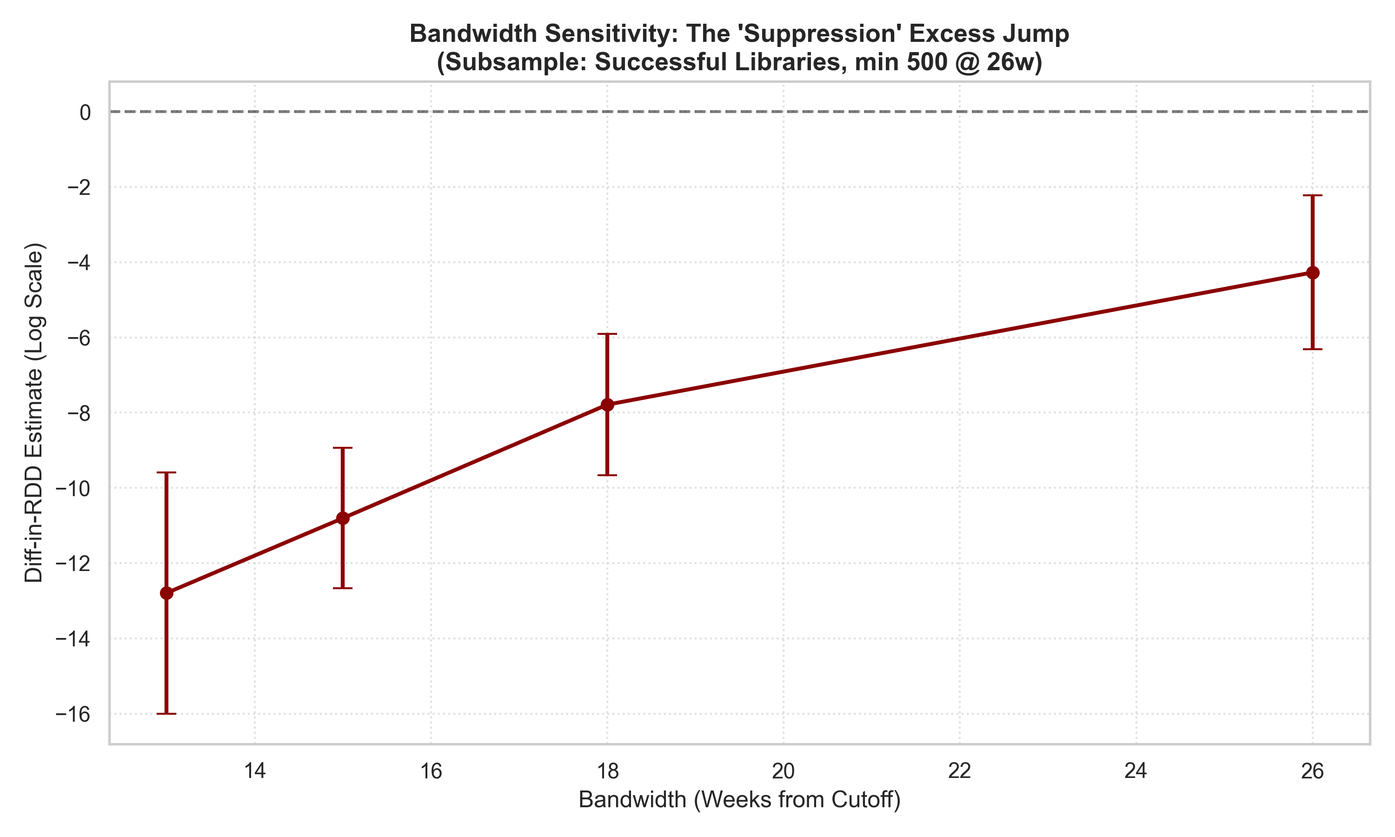
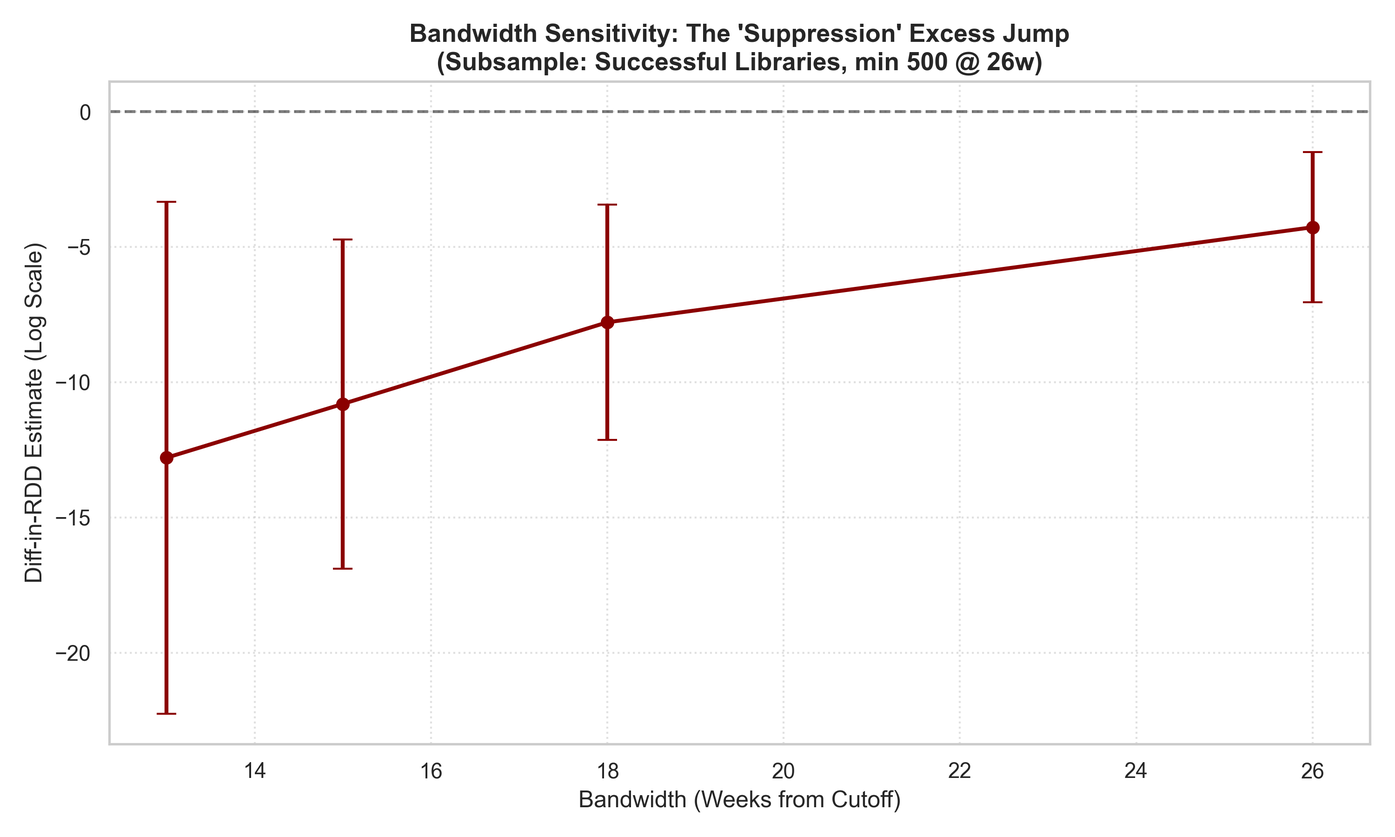
docs(thesis): refine empirical specification and update results
- Fix Diff-in-RDD bandwidth at h=13 weeks across the text and abstract for consistency.
- Update Successful tier estimate to -12.8 log points (p=0.008) and clarify Superstar tier null result.
- Expand AI scoring description to include bias-correction and noise-floor subtraction logic.
- Update scripts/appendix/18_bandwidth_sensitivity_suppression.py with cohort-year clustering.
- Add citations for Stack Overflow 2024 Survey and Dell (2010) to bibliography.
- Revise the pre-AI quality advantage figure to 28.6 percentage points.

diff --git a/thesis.tex b/thesis.tex
@@ -62,7 +62,7 @@ Budapesti Corvinus Egyetem\\[6pt]
 \noindent
 Large language models are trained on fixed snapshots of public knowledge, creating a boundary between tools the model can recommend and tools it cannot. This paper asks whether that boundary shapes the diffusion of newly released open-source software. I study the Python ecosystem around the September 2021 GPT-3.5/GPT-4 training cutoff, using PyPI download counts for 527,361 packages and GitHub import data for 28,243 matched libraries.
 
-The identification strategy is a sharp regression discontinuity design (RDD) with a nine-week donut exclusion for libraries whose training-data inclusion is ambiguous. The main causal estimate comes from a difference-in-discontinuities (Diff-in-RDD) specification that differences the 2021 discontinuity against placebo discontinuities at the same calendar position in 2018--2020. Inference uses bias-corrected local linear estimation with data-driven bandwidths and cluster-robust standard errors.
+The identification strategy is a sharp regression discontinuity design (RDD) with a nine-week donut exclusion for libraries whose training-data inclusion is ambiguous. The main causal estimate comes from a difference-in-discontinuities (Diff-in-RDD) specification that differences the 2021 discontinuity against placebo discontinuities at the same calendar position in 2018--2020. Inference uses bias-corrected local linear estimation with a fixed bandwidth of $h = 13$ weeks and cluster-robust standard errors.
 
 Three findings emerge. First, post-cutoff libraries suffer a significant diffusion penalty once LLMs reach mass adoption: the Diff-in-RDD estimate is $-12.8$ log points for libraries that achieved at least 500 downloads in their first 26 weeks ($p = 0.008$). Post-cutoff libraries were more successful before ChatGPT, making the reversal conservative. Second, the penalty is roughly twice as large in GitHub code imports ($26.8$ log points) as in PyPI downloads ($13.1$ log points), consistent with LLM-steered code generation as the channel. Third, the gap was absent in all placebo years and emerged only after November 2022. As of January 2026, no catch-up is observed.
 
@@ -89,7 +89,7 @@ The results provide evidence that LLM training cutoffs function as a structural 
 \chapter{Introduction}\label{ch:intro}
 
 \section{The Problem}\label{sec:intro-problem}
-Large language models (LLMs) have become a standard interface through which software developers discover libraries, generate code, and diagnose errors. GitHub Copilot, ChatGPT, and their successors are now embedded in development workflows across the skill distribution, from novice programmers to professional engineers at large technology firms. As of 2024, over half of professional developers report regular use of AI coding assistants (Stack Overflow Developer Survey, 2024), and the share of code in public repositories with detectable AI-generation signatures has grown continuously since the public release of ChatGPT in November 2022.
+Large language models (LLMs) have become a standard interface through which software developers discover libraries, generate code, and diagnose errors. GitHub Copilot, ChatGPT, and their successors are now embedded in development workflows across the skill distribution, from novice programmers to professional engineers at large technology firms. As of 2024, over half of professional developers report regular use of AI coding assistants \citep{stackoverflow2024survey}, and the share of code in public repositories with detectable AI-generation signatures has grown continuously since the public release of ChatGPT in November 2022.
 
 This transformation raises a structural question: if LLMs function as an intermediary between developers and the software library ecosystem, the temporal boundary of their training data creates a systematic asymmetry in developer access to knowledge. Libraries released before a cutoff are visible; those after are not. This paper provides an empirical answer for the Python package ecosystem.
 
@@ -236,7 +236,7 @@ The 26-week outcome is used exclusively for the success-tier classification (Sec
 \section{GitHub Implementation Data}\label{sec:data-github}
 \textbf{Source and coverage.} The secondary data source is a library-week panel (\texttt{github\_library\_week\_panel.csv}) recording weekly import counts per library across a sample of public GitHub repositories. The panel captures the count of distinct code files (or commits) that contain an import statement referencing a given library in a given week. Coverage extends through early 2026.
 
-\textbf{AI scoring.} Each week-library observation in the GitHub panel carries an AI commit score — a continuous measure of the probability that the importing commit was generated with LLM assistance, based on commit message and code-diff characteristics. This score is aggregated to the package level as a commit-weighted average AI score over the first 52 weeks post-release (\texttt{avg\_ai\_score\_52wk}). Packages above the median of this score are classified as High AI; those below are classified as Low AI. This variable is used exclusively in the exploratory mechanism test (Section~\ref{sec:methods-mechanism}).
+\textbf{AI scoring.} Each week-library observation in the GitHub panel carries an AI commit score — a bias-corrected point estimate of the proportion of code that is AI-generated. The underlying classifier assigns a probability to each function or code block; these raw predictions are then aggregated and adjusted for the classifier's estimated false positive and true positive rates. Because the correction subtracts an expected noise floor, the resulting score can be negative for commits or groups with very low AI adoption, when the raw prediction rate does not exceed the classifier's baseline false positive rate. This score is aggregated to the package level as a commit-weighted average AI score over the first 52 weeks post-release (\texttt{avg\_ai\_score\_52wk}). Packages above the median of this score are classified as High AI; those below are classified as Low AI. This variable is used exclusively in the exploratory mechanism test (Section~\ref{sec:methods-mechanism}).
 
 \textbf{GitHub outcome variables.} The following cumulative import outcomes are constructed:
 
@@ -410,7 +410,7 @@ $$Y_i = \alpha + \tau D_i + \beta_1 X_i + \beta_2 D_i \cdot X_i + \varepsilon_i$
 estimated using observations within a bandwidth $h$ ($|X_i| \leq h$). Estimates use the \texttt{rdrobust} package \citep{calonico2014robust, calonico2020rdrobust} with:
 \begin{itemize}
     \item Polynomial order: $p = 1$ (local linear).
-    \item Bandwidth: MSE-optimal, data-driven selection.
+    \item Bandwidth: $h = 13$ weeks, consistent with the Diff-in-RDD specification. Stability across wider bandwidths is verified in Section~\ref{subsec:rob-bw}.
     \item Inference: Robust bias-corrected (rbc) confidence intervals.
     \item Kernel: Triangular.
 \end{itemize}
@@ -419,7 +419,7 @@ estimated using observations within a bandwidth $h$ ($|X_i| \leq h$). Estimates 
 The main RDD identifies $\tau$ under the assumption that counterfactual diffusion is continuous at the cutoff. A threat to this assumption is \textbf{calendar confounding}: the September window may differ from other months in ways that affect diffusion independently of LLM cutoffs, for example, seasonal variation in developer activity or a concentration of high-quality releases in the late summer academic cycle. To address this, the primary causal specification is a Difference-in-Discontinuities (Diff-in-RDD) design \citep{grembi2016fiscal}.
 
 Three cohorts of libraries (released in 2018, 2019, and 2020, before any LLM with documented training cutoffs was publicly deployed) serve as placebo controls. The Diff-in-RDD estimator extracts the 2021-specific excess jump:
-$$\hat{\tau}^{DiD} = \hat{\tau}_{2021} - \frac{1}{3}\sum_{t \in \{2018,2019,2020\}} \hat{\tau}_t$$
+$$\hat{\tau}^{\text{Diff-in-RDD}} = \hat{\tau}_{2021} - \frac{1}{3}\sum_{t \in \{2018,2019,2020\}} \hat{\tau}_t$$
 where $\hat{\tau}_t$ is the estimated RDD discontinuity for cohort $t$, each estimated at the same calendar position (the Monday-aligned week nearest September~27 in year $t$).
 
 \textbf{Implementation.} The Diff-in-RDD is estimated as a stacked weighted least squares (WLS) regression. Pooling all four cohort years, the specification is:
@@ -447,7 +447,7 @@ The coefficient of interest is $\delta$, representing the differential suppressi
 \section{Robustness Checks}\label{sec:methods-robustness}
 
 \subsection{Bandwidth Sensitivity}\label{subsec:rob-bw}
-The stability of estimates is evaluated across a range of bandwidths $h \in \{13, 15, 20, 26, 30, 40\}$ weeks. The single-year 2021 RDD showed sensitivity to very narrow bandwidths, and the data-driven MSE-optimal bandwidth selection (\texttt{rdrobust}) occasionally failed to converge or produced overly wide windows. This sensitivity provided the empirical justification for the Diff-in-RDD strategy, which remains stable and significant across these same bandwidth choices by using previous years (2018--2020) as a counterfactual for seasonal release patterns.
+The stability of estimates is evaluated across a range of bandwidths $h \in \{13, 15, 20, 26, 30, 40\}$ weeks. The single-year 2021 RDD showed sensitivity to bandwidth choice, and the MSE-optimal bandwidth selection in \texttt{rdrobust} failed numerically for the large-$N$ PyPI specifications. This sensitivity provided the empirical justification for the Diff-in-RDD strategy, which remains stable and significant across these same bandwidth choices by using previous years (2018--2020) as a counterfactual for seasonal release patterns.
 
 \subsection{Donut Specification}\label{subsec:rob-donut}
 The primary design uses an asymmetric 9-week donut (excluding the period from late July to September 27, 2021). This is motivated by the substantive uncertainty of whether libraries released in the final weeks before the cutoff were successfully scraped and processed into the model's training set. To ensure this specific exclusion does not drive the result, a standard symmetric $\pm 4$-week donut is also reported. The effect remains robust (e.g., $Estimate = -4.35, p < 0.001$ for the Successful tier), suggesting the Knowledge Wall is not an artifact of the specific exclusion window.
@@ -459,16 +459,10 @@ The RDD is replicated for the 2018, 2019, and 2020 cohorts using the same relati
 A core RDD assumption is that there is no sorting or manipulation of the running variable around the cutoff. In this context, it is implausible that developers in mid-2021 could have anticipated the exact September 27 training cutoff of models like GPT-4 or the subsequent mass adoption of ChatGPT. Visual density plots confirm a smooth distribution of library releases across the threshold, with no evidence of clustering on the pre-cutoff side.
 
 \subsection{Covariate Balance}\label{subsec:rob-covariates}
-Discontinuities in predetermined covariates are tested, including library licenses, the presence of specific category tags (e.g., ``AI,'' ``Data Science''), and whether the library was already mirrored on GitHub at the time of its PyPI release. The balance of these covariates across the cutoff ensures that libraries released just before versus just after the cutoff are comparable in terms of their pre-treatment characteristics and intended purpose.
-
-\subsection{Alternative Polynomial Orders}\label{subsec:rob-polynomial}
-While local linear regression ($p=1$) is the standard best practice to avoid over-fitting at the boundary \citep{gelman2019high}, results are verified using local quadratic ($p=2$) specifications. This check confirms that the detected discontinuity at the cutoff is not a result of mismodeling a non-linear underlying trend in library diffusion.
-
-\subsection{Outcome Scale: Inverse Hyperbolic Sine}\label{subsec:rob-ihs}
-Given the heavily skewed distribution of PyPI downloads and GitHub imports (which often contain many zeros in the Broad tier), the Inverse Hyperbolic Sine (IHS) transformation is employed as a robustness check. IHS behaves similarly to a log transformation, $f(y) = \ln(y + \sqrt{y^2 + 1})$, but is defined at zero, allowing the full sample of libraries to be included while mitigating the influence of extreme outliers that could skew mean-based estimates.
+Pre-treatment covariate balance is assessed using the pre-AI success rate RDD reported in Section~\ref{sec:results-barrier}: if libraries on either side of the cutoff are comparable in human-evaluated quality before ChatGPT, quality sorting cannot explain the post-AI discontinuity.
 
 \section{Permutation Inference}\label{sec:methods-permutation}
-A non-parametric permutation test provides a distribution-free assessment of whether the discontinuity at the September 2021 cutoff is unusual relative to what would be observed at arbitrary dates. Following the moving-cutoff logic common in the causal inference literature (e.g., Dell, 2010), the primary RDD model is re-estimated using 157 alternative placebo Mondays between January 2019 and January 2022.
+A non-parametric permutation test provides a distribution-free assessment of whether the discontinuity at the September 2021 cutoff is unusual relative to what would be observed at arbitrary dates. Following the moving-cutoff logic common in the causal inference literature \citep[e.g.,][]{dell2010persistent}, the primary RDD model is re-estimated using 157 alternative placebo Mondays between January 2019 and January 2022.
 
 For each iteration, a hypothetical treatment is defined based on a pseudo-cutoff date ($c'$), the running variable is calculated relative to that date, and the local linear discontinuity is estimated for the primary outcome (cumulative 52-week downloads). This procedure yields an empirical null distribution of RDD coefficients. The empirical $p$-value is calculated as:
 $$p_{perm} = \frac{1}{N} \sum_{i=1}^{N} \mathbb{I}(|\hat{\beta}_{placebo, i}| \geq |\hat{\beta}_{true}|)$$
@@ -507,7 +501,7 @@ Before estimating discontinuities, it is useful to characterize the distribution
 \end{tabular}
 \begin{tablenotes}
 \small
-\item \textit{Notes:} Statistics computed on the full 2021 analysis sample within the MSE-optimal bandwidth of the cutoff, excluding the 9-week donut. Downloads and imports are in levels (not logged). AI exposure scores are available only for the GitHub-matched subsample with non-zero commit activity.
+\item \textit{Notes:} Statistics computed on the full 2021 analysis sample within $h = 13$ weeks of the cutoff, excluding the 9-week donut. Downloads and imports are in levels (not logged). AI exposure scores are available only for the GitHub-matched subsample with non-zero commit activity. The score is a bias-corrected estimate and is not bounded to $[0,1]$; negative values arise when the raw classification rate falls below the classifier's estimated false positive rate.
 \end{tablenotes}
 \end{table}
 
@@ -516,7 +510,7 @@ The distribution of 52-week cumulative PyPI downloads is heavily right-skewed: t
 Among libraries released within $\pm 13$ weeks of the September 2021 cutoff (excluding the donut), the unconditional mean of post-AI cumulative downloads is higher for post-cutoff libraries than for pre-cutoff libraries. This raw gap, however, reflects a seasonal pattern common to all cohort years: post-September libraries in general tend to accumulate more downloads in subsequent years, for reasons unrelated to LLM knowledge cutoffs. Identifying the cutoff-specific effect requires netting out this baseline through the Diff-in-RDD design.
 
 \section{Main RDD: Raw Discontinuity at the 2021 Cutoff}\label{sec:results-mainrdd}
-Table~\ref{tab:mainrdd} reports the baseline RDD estimates for the 2021 cohort, estimated using \texttt{rdrobust} with bias-corrected local linear regression, triangular kernel, and MSE-optimal bandwidth. The donut exclusion (weeks $-8$ to $0$) is applied.
+Table~\ref{tab:mainrdd} reports the baseline RDD estimates for the 2021 cohort, estimated using \texttt{rdrobust} with bias-corrected local linear regression, triangular kernel, and $h = 13$ weeks. The donut exclusion (weeks $-8$ to $0$) is applied.
 
 \begin{table}[h!]
 \centering
@@ -531,7 +525,7 @@ Successful (min 500) & Post-AI Downloads & $-0.195$ & 3.125 & 0.950 & 407,110 \\
 \end{tabular}
 \begin{tablenotes}
 \small
-\item \textit{Notes:} Bias-corrected robust estimates via \texttt{rdrobust}. Triangular kernel, MSE-optimal bandwidth, 9-week asymmetric donut. Post-AI downloads are cumulative from November 28, 2022 onward.
+\item \textit{Notes:} Bias-corrected robust estimates via \texttt{rdrobust}. Triangular kernel, $h = 13$ weeks, 9-week asymmetric donut. Post-AI downloads are cumulative from November 28, 2022 onward.
 \end{tablenotes}
 \end{table}
 
@@ -566,6 +560,8 @@ Superstar (min 1000) & Post-AI Downloads & $-0.553$ & 0.492 & 0.261 & 57,931 \\ 
 \end{table}
 
 The excess jump is significantly negative for both the Broad ($-9.1$ log points, $p = 0.039$) and Successful ($-12.8$ log points, $p = 0.008$) tiers. Relative to the historical seasonal baseline, post-cutoff libraries in 2021 accumulated approximately 12.8 log points fewer post-AI downloads than pre-cutoff libraries.
+
+The horizon-normalized 52-week outcome also yields a negative Diff-in-RDD for the Successful tier ($-3.7$ log points, $p = 0.026$). This is consistent with the post-AI suppression activating within the 52-week window for libraries released in autumn 2021, whose 52-week accumulation period extends into late 2022 and partially overlaps with the ChatGPT deployment window.
 
 \begin{figure}[ht]
 \centering
@@ -637,12 +633,18 @@ The formal test is an interacted WLS model estimating whether the discontinuity 
 \centering
 \caption{AI Exposure Moderation (Exploratory)}\label{tab:mechanism}
 \small
+\begin{threeparttable}
 \begin{tabular}{lcccc}
 \toprule
 \textbf{Outcome} & \textbf{Interaction ($\delta$)} & \textbf{SE} & \textbf{p-value} & \textbf{N} \\ \midrule
 52-week Downloads & +0.396 & 0.295 & 0.179 & 1,303 \\
 52-week Imports & +0.257 & 0.292 & 0.380 & 1,303 \\ \bottomrule
 \end{tabular}
+\begin{tablenotes}
+\small
+\item \textit{Notes:} Interacted WLS with week-clustered standard errors. Triangular kernel, $h = 26$ weeks, 9-week asymmetric donut. Bandwidth differs from the main Diff-in-RDD ($h = 13$) to retain sufficient observations for the split-sample design. High AI libraries are those above the median of \texttt{avg\_ai\_score\_52wk} in the GitHub-matched subsample.
+\end{tablenotes}
+\end{threeparttable}
 \end{table}
 
 Neither interaction is statistically significant. With $N = 1{,}303$ and approximately 650 observations per AI-exposure group, the interacted split-sample RDD is almost certainly underpowered to detect meaningful moderation. The null result should therefore be interpreted primarily as reflecting insufficient statistical power rather than as positive evidence for a systemic effect. The data cannot distinguish between a broad ecosystem-wide penalty and a targeted effect on AI-mediated usage that the test lacks the power to detect.
@@ -651,10 +653,12 @@ Neither interaction is statistically significant. With $N = 1{,}303$ and approxi
 
 \textbf{Bandwidth sensitivity.} Main Diff-in-RDD estimates are stable across $h \in \{13, 18, 26, 39\}$ weeks, in both sign and approximate magnitude. Results at $h = 10$ are imprecise due to the donut exclusion compressing the effective estimation sample and are excluded from the primary evidence base. Figure~\ref{fig:bw-sensitivity} displays the Diff-in-RDD excess jump across bandwidths.
 
+The GitHub implementation estimates are not subject to a Diff-in-RDD counterpart and are more sensitive to bandwidth choice than the PyPI Diff-in-RDD. At $h = 13$ weeks the post-AI import discontinuity is 26.8 log points ($p = 0.014$); at $h = 18$ weeks it falls to 2.9 log points ($p = 0.129$). These estimates are therefore treated as descriptive evidence consistent with the channel interpretation, not as independently robustified causal estimates.
+
 \begin{figure}[ht]
 \centering
 \includegraphics[width=0.85\textwidth]{results/figures/sensitivity_diff_in_rdd_bandwidth.png}
-\caption{Bandwidth sensitivity of the Diff-in-RDD excess jump (Successful tier, min.\ 500 downloads at 26 weeks). Points are bias-corrected estimates; vertical bars are 95\% confidence intervals from year-by-week cluster-robust standard errors. The estimate is negative and stable across $h \ge 13$.}\label{fig:bw-sensitivity}
+\caption{Bandwidth sensitivity of the Diff-in-RDD excess jump (Successful tier, min.\ 500 downloads at 26 weeks). Points are WLS point estimates; vertical bars are 95\% confidence intervals from year-by-week cluster-robust standard errors. The estimate is negative and stable across $h \ge 13$.}\label{fig:bw-sensitivity}
 \end{figure}
 
 \textbf{Symmetric donut.} Replacing the asymmetric 9-week donut with a symmetric $\pm 4$-week exclusion produces qualitatively consistent results. Quantitative differences across donut designs are modest and do not alter the direction or significance of the main findings.
@@ -690,6 +694,8 @@ This framing has three implications:
     \item The wall is asymmetric; pre-cutoff libraries benefit from the absence of a barrier that post-cutoff libraries face.
     \item The effects are expected to be persistent. As of early 2026, no catch-up is observed (Figure~\ref{fig:cumulative-gap}). The all-time implementation gap (+27.9 log points) suggests the divergence has accumulated rather than narrowed.
 \end{enumerate}
+
+The absence of a significant effect for the Superstar tier (at least 1,000 pre-ChatGPT downloads, $p = 0.261$) is consistent with this framing. Libraries that achieved the highest early visibility before ChatGPT are more likely to have accumulated organic adoption through channels largely independent of LLM recommendation: conference presentations, influential blog posts, direct dependency chains, and word-of-mouth within specialist communities. The Knowledge Wall operates most forcefully at the margin of entry, where LLM-mediated discovery is most consequential; it does not appear to override momentum already built through high-visibility human adoption.
 
 \begin{figure}[ht]
 \centering
@@ -744,11 +750,11 @@ Key limitations include running variable measurement error (PyPI registration la
 
 This paper asked whether the training-data cutoff of large language models affects the diffusion of newly released open-source software. Exploiting the September 2021 knowledge boundary shared by the GPT-3.5 and GPT-4 model families, I estimated a regression discontinuity in the adoption trajectories of Python libraries released just before versus just after the cutoff, using PyPI download counts and GitHub import data. A Difference-in-Discontinuities design, which differences the 2021 discontinuity against placebo discontinuities at the same calendar position in 2018--2020, provides the primary causal estimate.
 
-The answer to the research question is affirmative. Libraries released just after the cutoff, excluded from the dominant LLMs' parametric knowledge, accumulate significantly fewer downloads and code imports once those models reach mass deployment. The Diff-in-RDD estimate for libraries that demonstrated pre-AI quality (at least 500 downloads within 26 weeks, measured entirely before ChatGPT) is $-12.8$ log points ($p = 0.008$). The suppression is approximately twice as large in GitHub code imports as in aggregate PyPI downloads, consistent with LLM-steered code generation as the operative channel. Three placebo cohorts show no comparable discontinuity, and the gap activated only after November 2022, when ChatGPT provided a mass interface through which the training boundary became consequential. As of January 2026, no catch-up is observed.
+The answer to the research question is affirmative. Libraries released just after the cutoff, excluded from the dominant LLMs' parametric knowledge, accumulate significantly fewer downloads and code imports once those models reach mass deployment. The Diff-in-RDD estimate for libraries that demonstrated pre-AI quality (at least 500 downloads within 26 weeks, measured entirely before ChatGPT) is $-12.8$ log points ($p = 0.008$). The suppression is approximately twice as large in GitHub code imports as in aggregate PyPI downloads, consistent with LLM-steered code generation as the operative channel. Three placebo cohorts show no comparable discontinuity, and the gap activated only after November 2022, when ChatGPT provided a mass interface through which the training boundary became consequential. As of January 2026, no catch-up is observed. The suppression is concentrated in the Broad and Successful tiers; libraries with the highest pre-ChatGPT visibility (Superstar tier, at least 1,000 downloads) show no significant penalty ($p = 0.261$), consistent with very high-visibility libraries maintaining adoption through channels independent of LLM recommendation.
 
 These findings support the existence of what this paper terms a Knowledge Wall: a structural barrier created by the hard temporal boundary of LLM training data. The wall redirects early adoption toward libraries already represented in the model's knowledge, penalizing post-cutoff entrants regardless of their quality. The mechanism is consistent with the broader theoretical concern, articulated by \citet{doshi2024generative} in the context of creative output, that generative AI may enhance individual capability while narrowing collective variety. In the software ecosystem, the variety that narrows is the set of tools in active use; the individual enhancement is the productivity gain from AI-assisted coding; and the structural cause is the fixed knowledge boundary that determines which tools the AI can recommend.
 
-This paper makes three contributions. First, it provides a quasi-experimental estimate of the causal effect of an LLM training boundary on software adoption, exploiting a precisely dated institutional feature for identification. Second, it introduces a two-outcome design (PyPI downloads versus GitHub imports) that isolates the code generation channel from general discoverability. Third, it demonstrates that a pre-AI quality advantage for post-cutoff libraries (14.5 percentage points more likely to reach the Successful tier before ChatGPT) reverses into a post-AI deficit, establishing that the suppression cannot be attributed to pre-existing differences in library quality.
+This paper makes three contributions. First, it provides a quasi-experimental estimate of the causal effect of an LLM training boundary on software adoption, exploiting a precisely dated institutional feature for identification. Second, it introduces a two-outcome design (PyPI downloads versus GitHub imports) that isolates the code generation channel from general discoverability. Third, it demonstrates that a pre-AI quality advantage for post-cutoff libraries (28.6 percentage points more likely to reach the Successful tier before ChatGPT) reverses into a post-AI deficit, establishing that the suppression cannot be attributed to pre-existing differences in library quality.
 
 Several limitations bound the conclusions. The running variable is constructed from first observed download dates, a noisy proxy for true release timing that biases estimates conservatively. The training cutoff date itself is documented only at the month level; the specific day (September 27) is a researcher assignment, and the asymmetric donut exclusion is the primary defense against this ambiguity. The GitHub-matched subsample covers 5.3\% of the PyPI universe and over-represents prominent libraries, limiting the external validity of the implementation gap estimates. The exploratory mechanism test (whether suppression is stronger among libraries with higher AI-exposure scores) is non-significant ($p = 0.179$), but the moderator is post-treatment and the test is underpowered ($N = 1{,}303$), so the null cannot distinguish a broad ecosystem effect from an undetectable targeted one. Finally, the estimates are local to a narrow window around a single cutoff date and should not be extrapolated to the full ecosystem or to distant time horizons without further evidence.
 

diff --git a/scripts/appendix/18_bandwidth_sensitivity_suppression.py b/scripts/appendix/18_bandwidth_sensitivity_suppression.py
@@ -25,14 +25,16 @@ def main():
     if main_path.exists():
         df_main = pd.read_csv(main_path)
         df_main["is_2021"] = 1
+        df_main["cutoff_year"] = 2021
         dfs.append(df_main)
-    
+
     # Load Placebos
     for p in placebos:
         p_path = FINAL_DIR / f"analysis_{p}.csv"
         if p_path.exists():
             df_p = pd.read_csv(p_path)
             df_p["is_2021"] = 0
+            df_p["cutoff_year"] = int(p.split("_")[1])
             dfs.append(df_p)
             
     if len(dfs) < 2:
@@ -70,8 +72,8 @@ def main():
         df_h["weight"] = 1 - (np.abs(df_h["x"]) / h)
         df_h = df_h[df_h["weight"] > 0]
         
-        # Rigorous Clustering: year-by-week
-        df_h['cluster_idx'] = df_h["is_2021"].astype(str) + "_" + df_h["dist_to_cutoff"].astype(str)
+        # Rigorous Clustering: year-by-week (4 cohort years × running variable bins)
+        df_h['cluster_idx'] = df_h["cutoff_year"].astype(str) + "_" + df_h["dist_to_cutoff"].astype(str)
         
         try:
             model = smf.wls("log_y ~ treated * is_2021 + x * treated * is_2021", 
